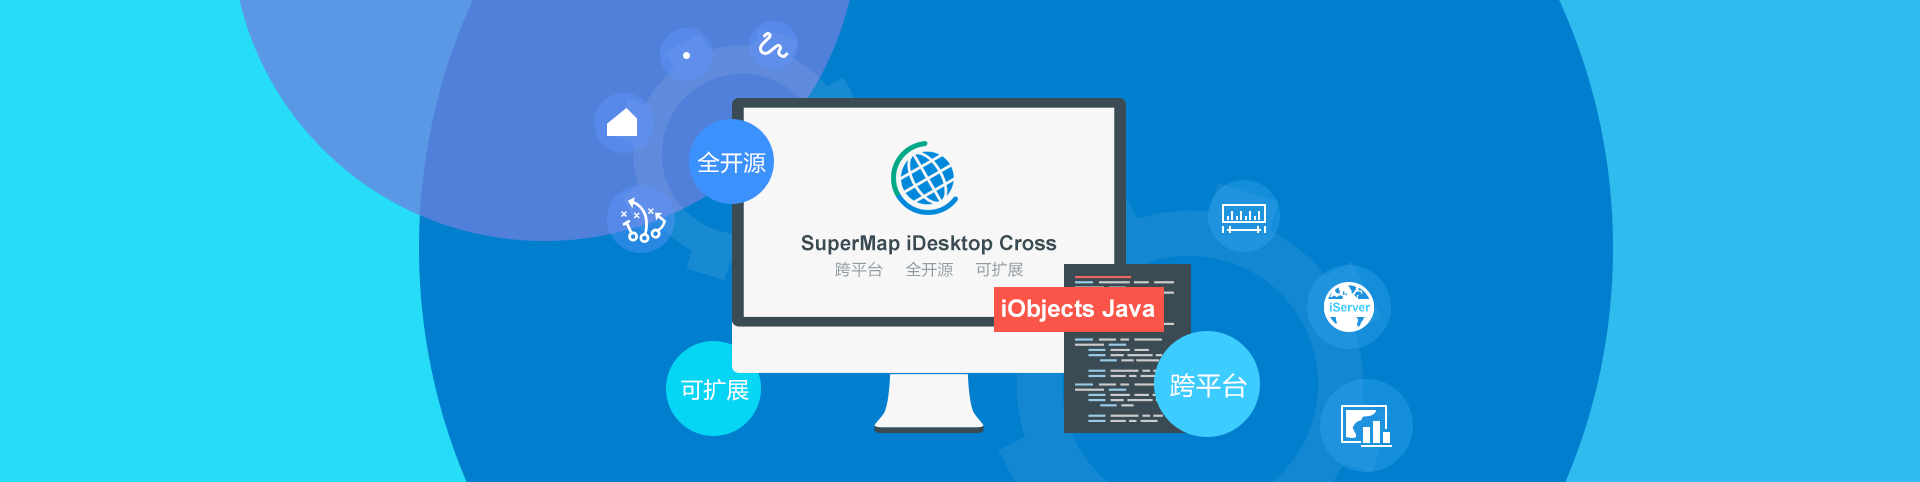
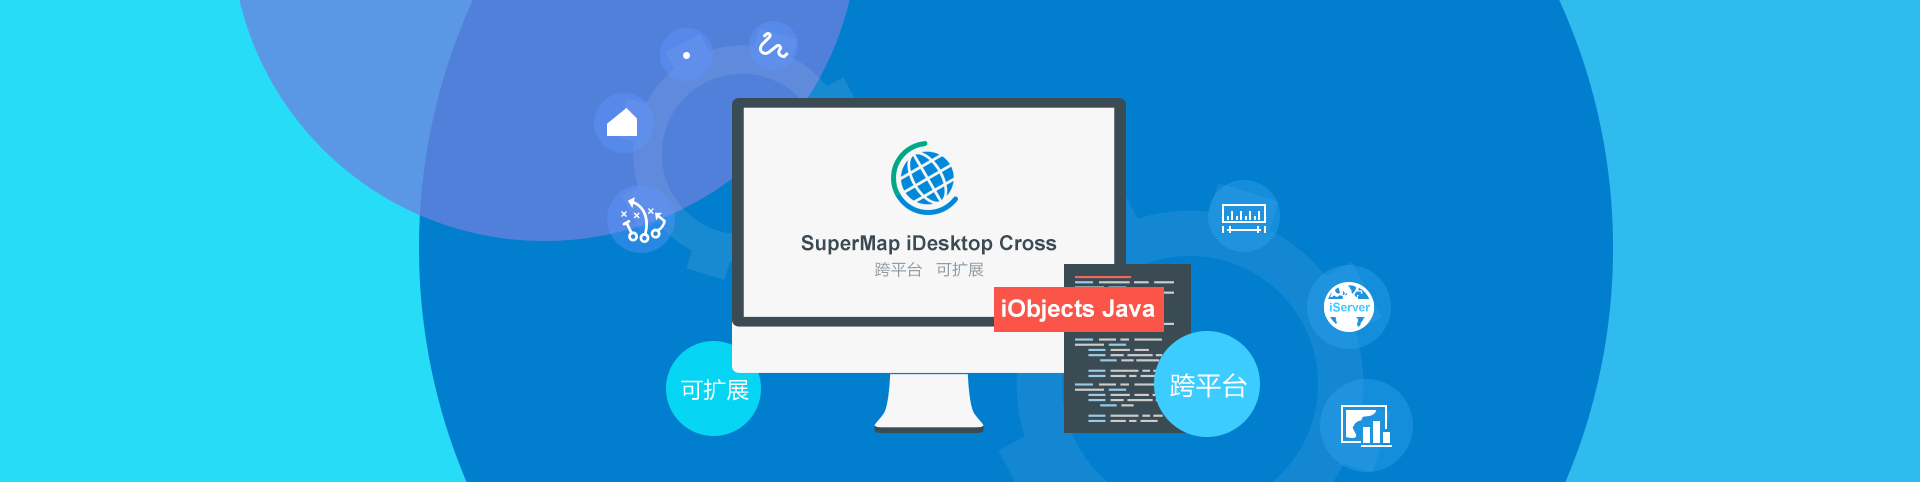
去掉开源相关内容，修改Bigdatastore

Changed region(s): [[0.3438, 0.249, 0.4062, 0.4357], [0.4375, 0.529, 0.5312, 0.5913], [0.3438, 0.778, 0.375, 0.8091]]

diff --git a/source/docs/index.md b/source/docs/index.md
@@ -3,14 +3,12 @@ title: SuperMap iDesktop Cross 9D 产品介绍
 
 　　
 
-　　SuperMap iDesktop Cross 9D 是基于 SuperMap iObjects Java 9D、OSGI 等平台，通过 Java 语言开发的插件式、跨平台GIS应用软件，提供了数据管理、数据处理、数据分析、地图制图出图、三维场景浏览（目前仅Windows平台支持）等功能，同时提供了灵活的开发框架和辅助控件，便于用户二次开发。SuperMap iDesktop Cross 9D的源代码分别开源在[OSChina](http://git.oschina.net/supermap/SuperMap-iDesktop-Cross)和[CSDN](https://code.csdn.net/SuperMapDesktop/supermap-idesktop-cross/tree/master)两大平台上。
+　　SuperMap iDesktop Cross 9D 是基于 SuperMap iObjects Java 9D、OSGI 等平台，通过 Java 语言开发的插件式、跨平台GIS应用软件，提供了数据管理、数据处理、数据分析、地图制图出图、可视化建模等功能，同时提供了灵活的开发框架和辅助控件，便于用户二次开发。
 
 ## 产品简介
 
 　　SuperMap iDesktop Cross 是一套运行在桌面端的专业GIS软件，是基于 SuperMap iObjects Java 组件，使用 OSGI 框架和 intellij idea 工具开发的跨平台 GIS 应用软件。SuperMap iDesktop Cross 提供了适用于不同平台的版本，分为 Windows 和 Linux 两个版本，其中，Windows包括 32 位和 64 位两个版本，分别提供了绿色包和安装包，Linux 版本提供了 64 位的绿色包。
-　　SuperMap iDesktop Cross 提供了适用于不同平台的版本，分为 Windows 和 Linux 两个版本，其中，Windows包括 32 位和 64 位两个版本，分别提供了绿色包和安装包，Linux 版本提供了 64 位的绿色包。
 
-　　SuperMap iDesktop Cross 是一款免许可的应用软件，只要有 SuperMap iObjects Java 的许可，即可使用 SuperMap iDesktop Cross 提供的相应模块的功能。
 
 ## 提供功能
 
@@ -19,7 +17,7 @@ title: SuperMap iDesktop Cross 9D 产品介绍
 　　提供了工作空间管理、数据源管理、数据集管理功能；支持文件型、数据库型、Web型数据引擎；提供对空间数据及其属性的全面操作和处理，包括创建、编辑、管理、访问等功能。
 
 
--   **数据引擎**：支持打开不同数据引擎，如 Oracle、SQLPlus、DB2、MySQL 等数据库，其中，Linux 版本不支持 SQLPlus 数据引擎；同时支持打开Web地图数据，即OGC服务、iServerREST服务、超图云服务、GoogleMaps、BaiduMap、OpenStreetMap、BigDataStore 等Web地图。
+-   **数据引擎**：支持打开不同数据引擎，如 Oracle、SQLPlus、DB2、MySQL 等数据库，其中，Linux 版本不支持 SQLPlus 数据引擎；同时支持打开Web地图数据，即OGC服务、iServerREST服务、超图云服务、GoogleMaps、OpenStreetMap、iServer DataStore 等Web地图。
 
 
 -   **工作空间管理**：支持打开、保存、另存、关闭、删除工作空间，支持打开的工作空间有文件型、Oracle、SQLServer 三种类型，Linux 版本不支持打开 SQL Server 工作空间；异常退出桌面时支持自动恢复工作空间。
@@ -111,7 +109,7 @@ title: SuperMap iDesktop Cross 9D 产品介绍
 
 ### 大数据
 
--   **BigDataStore数据源**：支持 BigDataStore 大数据 Web 引擎，便于用户直接使用 BigDataStore 数据源中的数据集执行数据处理与分析功能。 
+-   **iServer DataStore数据源**：支持 iServer DataStore 大数据 Web 引擎，便于用户直接使用 iServer DataStore 数据源中的数据集执行数据处理与分析功能。 
 
 -   **数据管理**：支持对大数据量的数据进行管理，通过一个部署好并可访问的 Hadoop 地址，即可对自己的数据进行管理，支持了数据上传、下载、文件夹管理、任务管理等功能。 
 
@@ -144,11 +142,11 @@ title: SuperMap iDesktop Cross 9D 产品介绍
 
 ## 主要特色
 
-### 跨平台、全开源、可定制
+### 跨平台、可定制
 
 -   基于 Java 组件采用 Java 语言开发，具有跨平台的特性，支持在 Windows 和 Linux 系统中运行。
 
--   采用 OSGI 新的实现框架——Felix，易扩展、框架配置灵活，实现了插件式桌面及源代码的开源。
+-   采用 OSGI 新的实现框架——Felix，易扩展、框架配置灵活，实现了插件式的桌面。
 -   遵循 OSGI 国际扩展标准，将应用程序分为多个模块单元，统一管理各模块单元及用户开发的模块单元之间的交叉依赖关系，实现GIS数据的展示。
 
 -   界面采用 Swing 图形风格，界面支持跨平台，安全性高，易于界面定制和二次开发。

diff --git a/source/docs/BigData/DataPreparation.md b/source/docs/BigData/DataPreparation.md
@@ -3,13 +3,13 @@ title: 数据准备
 
 　　大数据在线分析服务支持的输入数据来源有以下几种。当数据准备就绪后，在创建各类大数据分析任务时，iServer 会自动列出符合分析条件的数据集。
 
-- BigDataStore 中存储的数据集
+- iServer DataStore 中存储的数据集
 - 存储在HDFS的数据
 - UDB数据
 
-### BigDataStore
+### iServer DataStore
 
-　　BigDataStore 是一款应用程序，您可以通过 iServer DataStore 快速创建数据存储，并将数据存储与 iServer 关联起来。在 DataStore 中配置关系型数据存储时，将自动创建一个 PostgreSQL 数据库，可存储数据集。通过 iServer 大数据服务访问数据，进而可下载、上传数据，以及分析这些数据等。
+　　iServer DataStore 是一款应用程序，您可以通过 iServer DataStore 快速创建数据存储，并将数据存储与 iServer 关联起来。在 DataStore 中配置关系型数据存储时，将自动创建一个 PostgreSQL 数据库，可存储数据集。通过 iServer 大数据服务访问数据，进而可下载、上传数据，以及分析这些数据等。
 
 
 - **环境搭建**
@@ -29,22 +29,22 @@ title: 数据准备
 　　![](img/DataStore6.png) 
 8. 数据集上传成功后，会返回一个唯一的 dataID，如上图所示，用于代表该上传文件的数据包。单击该DataID，可查看该数据包的详细描述信息。上传成功的数据集，也会出现在 relationship/datasets 资源的“数据集列表”中。
 　　![](img/DataStore7.png) 
-9. 上传数据之后，在Cross中通过打开刚配置好的 BigDataStore 数据源，即可查看其中上传的数据
+9. 上传数据之后，在Cross中通过打开刚配置好的 iServer DataStore 数据源，即可查看其中上传的数据
 
 
 　　![](img/DataStore8.png) 
 
 
-- **使用BigDataStore数据**
+- **使用iServer DataStore数据**
 　　
-　　配置好iServer DataStore之后，可在Cross中通过打开Web数据源的方式打开该数据，打开 BigDataStore 的同时，会将存储了同样数据的 PostgreSQL 数据源打开，便于对数据进行分析。具体的使用方式如下：
+　　配置好iServer DataStore之后，可在Cross中通过打开Web数据源的方式打开该数据，打开 iServer DataStore 的同时，会将存储了同样数据的 PostgreSQL 数据源打开，便于对数据进行分析。具体的使用方式如下：
 
 
 1. 打开SuperMap iDesktop Cross，在**工作空间管理器**的**数据源**节点处单击鼠标右键，选择“打开Web型数据源...”；
-2. 在弹出的对话框中选择“BigDataStore”，并输入该数据源所在的服务器IP和端口号，如下图所示，单击打开即可打开该服务器中配置好的数据源。
+2. 在弹出的对话框中选择“iServer DataStore”，并输入该数据源所在的服务器IP和端口号，如下图所示，单击打开即可打开该服务器中配置好的数据源。
 　　![](img/OpenBDS.png)
-3. 打开BigDataStore数据源的同时，会打开存储了同样数据的 PostgreSQL 数据源，该PostgreSQL 数据源的名称为**BigDataStore_数据库名**，做大数据在线分析时，选择 PostgreSQL 中的数据做源数据即可。
-4. 设置大数据在线分析功能的“输入数据”参数时，“数据输入方式”选择**BigDataStore**，并设置数据所在的服务器地址、数据库名称、用户名、密码，这些参数的设置可在**BigDataStore**数据源下，单击数据集右键，选择“属性”查看即可，如下图所示：
+3. 打开iServer DataStore数据源的同时，会打开存储了同样数据的 PostgreSQL 数据源，该PostgreSQL 数据源的名称为**iServerDataStore_数据库名**，做大数据在线分析时，选择 PostgreSQL 中的数据做源数据即可。
+4. 设置大数据在线分析功能的“输入数据”参数时，“数据输入方式”选择**iServer DataStore**，并设置数据所在的服务器地址、数据库名称、用户名、密码，这些参数的设置可在**iServer DataStore**数据源下，单击数据集右键，选择“属性”查看即可，如下图所示：
 　　![](img/BDSProperty.png)
 5. 参与分析的**源数据**选择对应 PostgreSQL 数据源中的数据集，即可执行在线分析。
 

diff --git a/source/en/docs/BigData/DataPreparation.md b/source/en/docs/BigData/DataPreparation.md
@@ -3,11 +3,11 @@ title: Data Preparation
 
 　　After big data is ready, iServer will list all datasets which meet the analysis condition when creating big data analysis tasks. All supported data sources are listed by big data online analysis service as follows.
 
-- Data stored in BigDataStore
+- Data stored in iServer DataStore
 - Data stored in HDFS
 - UDB data
 
-### BigDataStore
+### iServer DataStore
 
 　　New application program DataStore is provided, you can create data storage quickly through iServer DataStore, and associate data storage with iServer. When configuring relational data storage in DataStore, a PostgreSQL database will be created automatically which is used to store dataset. Through iServer big data service, you can download, upload data, and analyze data.
 
@@ -29,22 +29,22 @@ title: Data Preparation
 　　![](img/DataStore6.png) 
 8. After uploading data successfully, the only dataID will be returned, which is used to represent the uploaded data package. You can view the detailed description information of the data package by clicking the DataID. The uploaded dataset will be displayed in "Dataset List" of relationship/datasets resource.
 　　![](img/DataStore7.png) 
-9. Open the configured BigDataStore datasource in Cross to view the uploaded data.
+9. Open the configured iServer DataStore datasource in Cross to view the uploaded data.
 
 
 　　![](img/DataStore8.png) 
 
 
-- **Using BigDataStore Data**
+- **Using iServer DataStore Data**
 　　
 　　After configuring iServer DataStore successfully, the data can be opened by opening web datasource in Cross, at the same time, PostgreSQL datasource which saves the same data will be opened. The detail operations are shown as follow:
 
 
 1. Open SuperMap iDesktop Cross, right-click mouse in **Datasource** node of "Workspace Manager", and then select "Open Web datasource...".
-2. Select "BigDataStore" in the pop-up dialog box, and enter server IP and port number as follows, click "Open" to open datasource configured in the server.
+2. Select "iServer DataStore" in the pop-up dialog box, and enter server IP and port number as follows, click "Open" to open datasource configured in the server.
 　　![](img/OpenBDS.png)
-3. PostgreSQL datasource will be opened when opening BigDataStore datasource, the PostgreSQL datasource name is **BigDataStore_database name**, when performing big data online analysis, selecting data in PostgreSQL as source data.
-4. About the settings of parameter "Input Data" of big data online analysis, choose **BigDataStore** for "Data Input Mode", and set server address, database name, username, password, you can view these parameters settings by right-clicking dataset under **BigDataStore** datasource and selecting Property, as follows:
+3. PostgreSQL datasource will be opened when opening iServer DataStore datasource, the PostgreSQL datasource name is **iServerDataStore_database name**, when performing big data online analysis, selecting data in PostgreSQL as source data.
+4. About the settings of parameter "Input Data" of big data online analysis, choose **iServer DataStore** for "Data Input Mode", and set server address, database name, username, password, you can view these parameters settings by right-clicking dataset under **iServer DataStore** datasource and selecting Property, as follows:
 　　![](img/BDSProperty.png)
 5. Select dataset of corresponded PostgreSQL datasource for "Source Data" which will participate in analysis.
 

diff --git a/source/en/docs/index.md b/source/en/docs/index.md
@@ -3,12 +3,11 @@ title: SuperMap iDesktop Cross 9D Introduction
 
 　　
 
-　　SuperMap iDesktop Cross 9D which is written in Java is a plug-in, cross-platform application software based on SuperMap iObjects Java 9D and OSGI. Cross provides various features, such as: data management, data processing, data analysis, and mapping (only supported on Windows), and provides a flexible development framework and auxiliary controls, user-friendly secondary development. The source codes of Cross is put on the platforms [OSChina](http://git.oschina.net/supermap/SuperMap-iDesktop-Cross) and [CSDN](https://code.csdn.net/SuperMapDesktop/supermap-idesktop-cross/tree/master).
+　　SuperMap iDesktop Cross 9D which is written in Java is a plug-in, cross-platform application software based on SuperMap iObjects Java 9D and OSGI. Cross provides various features, such as: data management, data processing, data analysis, and mapping, modeling visually, and provides a flexible development framework and auxiliary controls, user-friendly secondary development.
 
 ## Product introduction
 
-　　SuperMap iDesktop Cross is a professional , cross-platform GIS software which is developed based on SuperMap iObjects Java. by using OSGI framework and intellij idea tool. 
-　　Multiple Cross versions are provided for Windows and Linux. For Windows, the provided versions include bin packages and installation package (both of them are in 32 bit and 64 bit), while the bin package in 64 bit is provided for Linux system.
+　　SuperMap iDesktop Cross is a professional , cross-platform GIS software which is developed based on SuperMap iObjects Java. by using OSGI framework and intellij idea tool. Multiple Cross versions are provided for Windows and Linux. For Windows, the provided versions include the bin packages in 32 bit and 64 bit, while only the bin package in 64 bit is provided for Linux system.
 
 ## Provided functions
 
@@ -142,7 +141,7 @@ title: SuperMap iDesktop Cross 9D Introduction
 -   Since adopting JAVA program language, the product (based on Java iObjects) has the ability of cross-platform which means the product can run on Windows or Linux system.
 
 -   The adoption of Felix makes the application easy to expand and flexible configuration framework and achieves a pluggable iDesktop.
--   The OSGI international standards is conformed. An application program can be devided into multiple units, so that relationships between each unit and these units developed by users can be managed to achieve the display for GIS data.
+-   The OSGI international standards is conformed. An application program can be divided into multiple units, so that relationships between each unit and these units developed by users can be managed to achieve the display for GIS data.
 
 -   The interface adopts Swing graphic styles, supports cross-platform. Also it is strong security and can be easy to customize and secondary development. 
 

diff --git a/source/docs/BigData/DensityAnalysis.md b/source/docs/BigData/DensityAnalysis.md
@@ -30,19 +30,19 @@ title: 密度分析
 
 - **输入数据**
 
-　　数据输入方式：支持HDFS、BigDataStore、UDB三种数据输入方式，数据的使用和准备请参见：[数据准备](DataPreparation.html)。
+　　数据输入方式：支持HDFS、iServer DataStore、UDB三种数据输入方式，数据的使用和准备请参见：[数据准备](DataPreparation.html)。
 
 　　**HDFS**
 
 　　使用HDFS的数据输入方式，单击“选择文件”右侧的“浏览”按钮，在弹出的对话框中输入HDFS的数据地址，并选择待分析的scv文件即可。**注意**：参与密度分析的scv数据需要有对应的meta文件，若未创建meta文件，单击“meta文件不存在，请设置后使用”提示框中的“确定”按钮，即可在随后弹出的对话框中设置相关参数，“保存”后即可为scv文件创建meta文件。
 
-　　**BigDataStore**
+　　**iServer DataStore**
 
-　　使用BigDataStore的数据输入方式，需要先打开BigDataStore数据源，打开 BigDataStore 的同时，会将存储了同样数据的 PostgreSQL 数据源打开，便于对数据进行分析。具体的使用方式如下：
+　　使用iServer DataStore的数据输入方式，需要先打开iServer DataStore数据源，打开 iServer DataStore 的同时，会将存储了同样数据的 PostgreSQL 数据源打开，便于对数据进行分析。具体的使用方式如下：
 
 
-1. 通过“打开Web型数据源...”的方式打开BigDataStore数据源，打开BigDataStore数据源的同时，会打开存储了同样数据的 PostgreSQL 数据源，该PostgreSQL 数据源的名称为**BigDataStore_数据库名**；
-2. 设置数据所在的服务器地址、数据库名称、用户名、密码，这些参数的设置可在**BigDataStore**数据源下，单击数据集右键，选择“属性”查看即可，如下图所示：
+1. 通过“打开Web型数据源...”的方式打开iServer DataStore数据源，打开iServer DataStore数据源的同时，会打开存储了同样数据的 PostgreSQL 数据源，该PostgreSQL 数据源的名称为**iServerDataStore_数据库名**；
+2. 设置数据所在的服务器地址、数据库名称、用户名、密码，这些参数的设置可在**iServer DataStore**数据源下，单击数据集右键，选择“属性”查看即可，如下图所示：
 　　![](img/BDSProperty.png)
 3. 设置待分析数据集所在的 PostgreSQL 数据名称，并选择待分析的数据集及其类型。
 

diff --git a/source/en/docs/BigData/BigDataAnalysisEnvironmentConfiguration.md b/source/en/docs/BigData/BigDataAnalysisEnvironmentConfiguration.md
@@ -1,7 +1,7 @@
 title: Environment Configuration for Big Data Analysis
 ---
 
-　　New feature of big data analysis, performs online analysis effectively to data of great amount or multiple objects. Big data online analysis relies on iServer service. Based on Spark computing platform, distributed storage of data which is stored in HDFS, BigDataStore, or UDB can be analyzed. The features including big data of management, analysis, mapping and outputting map have been provided by Cross. For online analysis function, there are some features to be provided, including: simple point density analysis, kernel density analysis, vector clip analysis, single object query, mesh aggregation analysis, polygon aggregation analysis, range summary analysis.
+　　New feature of big data analysis, performs online analysis effectively to data of great amount or multiple objects. Big data online analysis relies on iServer service. Based on Spark computing platform, distributed storage of data which is stored in HDFS, iServer DataStore, or UDB can be analyzed. The features including big data of management, analysis, mapping and outputting map have been provided by Cross. For online analysis function, there are some features to be provided, including: simple point density analysis, kernel density analysis, vector clip analysis, single object query, mesh aggregation analysis, polygon aggregation analysis, range summary analysis.
  
 　　Follwing details environment configuration and operation of Big data online analysis.
 
@@ -22,7 +22,7 @@ title: Environment Configuration for Big Data Analysis
 6. Head to "Distributed analyst Service" panel, then check "Enable service" and click "Save" button.
 7. After completing the configuration, you can check whether the distributor analysis service has been added successfully by accessing [http://localhost:8090/iserver/services](http://localhost:8090/iserver/services).
 　　![](img/BDAnalysisiServer.png)
-8. Succeed to configure environment, then [prepare data](DataPreparation.html) (BigDataStore, HDFS or UDB) to execute the operation.
+8. Succeed to configure environment, then [prepare data](DataPreparation.html) ( iServer DataStore, HDFS or UDB) to execute the operation.
 
 
 ### ![](../img/seealso.png) Related topics

diff --git a/source/docs/BigData/BigDataAnalysisEnvironmentConfiguration.md b/source/docs/BigData/BigDataAnalysisEnvironmentConfiguration.md
@@ -1,7 +1,7 @@
 title: 大数据分析环境配置
 ---
 
-　　SuperMap iDesktop Cross 9D 提供了大数据在线分析的功能，可对数据量较大、对象个数较多的数据进行高效、稳定的在线分析功能。大数据在线分析依赖于iServer服务，基于Spark计算平台，可对分布式存储的数据进行分析，支持HDFS存储的数据、BigDataStore中存储的数据、UDB中存储的数据。Cross提供了大数据的管理、分析、地图制图、出图等功能，在线分析功能支持：简单点密度分析、核密度分析、矢量裁剪分析、单对象查询、网格面聚合分析、多边形聚合分析、范围汇总分析。
+　　SuperMap iDesktop Cross 9D 提供了大数据在线分析的功能，可对数据量较大、对象个数较多的数据进行高效、稳定的在线分析功能。大数据在线分析依赖于iServer服务，基于Spark计算平台，可对分布式存储的数据进行分析，支持HDFS存储的数据、iServer DataStore中存储的数据、UDB中存储的数据。Cross提供了大数据的管理、分析、地图制图、出图等功能，在线分析功能支持：简单点密度分析、核密度分析、矢量裁剪分析、单对象查询、网格面聚合分析、多边形聚合分析、范围汇总分析。
  
 　　大数据在线分析的环境配置和操作步骤如下：
 
@@ -22,7 +22,7 @@ title: 大数据分析环境配置
 6. 切换至“分布式分析服务”面板，勾选“是否启用”复选框，单击“保存”按钮即可；
 7. 完成上述集群配置之后，在浏览器中访问：[http://localhost:8090/iserver/services](http://localhost:8090/iserver/services)，查看服务列表中是否成功添加了分布式分析服务，如添加成功，则可基于该服务链接新建iServer任务，如下图所示：
 　　![](img/BDAnalysisiServer.png)
-8. 配置好分析环境后，[准备好数据](DataPreparation.html)（BigDataStore、HDFS 或 UDB）的即可执行大数据在线分析操作。
+8. 配置好分析环境后，[准备好数据](DataPreparation.html)（iServer DataStore、HDFS 或 UDB）的即可执行大数据在线分析操作。
 
 
 ### ![](../img/seealso.png) 相关主题

diff --git a/source/en/docs/BigData/DensityAnalysis.md b/source/en/docs/BigData/DensityAnalysis.md
@@ -30,19 +30,19 @@ title: Density Analysis
 
 - **Input Data**
 
-　　Input method: supporting HDFS, BigDataStore, UDB. For data preparation, please reference: [Data Preparation](DataPreparation.html).
+　　Input method: supporting HDFS, iServer DataStore, UDB. For data preparation, please reference: [Data Preparation](DataPreparation.html).
 
 　　**HDFS**
 
 　　For using HDFS method, you can click "Browse" button on the right side of "Select File", input HDFS data address in the pop-up dialog box and select scv file. **Note**: there must be a meta file corresponding to scv data, if not, you only need to click "OK" button in the prompt box (the prompt content is: meta file doesn't exist, please set it), then set related parameters and click "Save", a meta file is created.
 
-　　**BigDataStore**
+　　**iServer DataStore**
 
-　　For using BigDataStore method, you need to open BigDataStore datasource first, at the same time, PostgreSQL datasource which stores the same data will be opened automatically. The detail operation is as follows:
+　　For using iServer DataStore method, you need to open iServer DataStore datasource first, at the same time, PostgreSQL datasource which stores the same data will be opened automatically. The detail operation is as follows:
 
 
-1. Open BigDataStore datasource in "Open Web datasource...", meanwhile PostgreSQL datasource is opened. The PostgreSQL datasource name is **BigDataStore_Database name**.
-2. Set related parameters including: server address, database name, username, password, you can view these parameters by right-clicking **BigDataStore** datasource and selecting "Property", as follows:
+1. Open iServer DataStore datasource in "Open Web datasource...", meanwhile PostgreSQL datasource is opened. The PostgreSQL datasource name is **iServerDataStore_Database name**.
+2. Set related parameters including: server address, database name, username, password, you can view these parameters by right-clicking **iServer DataStore** datasource and selecting "Property", as follows:
 　　![](img/BDSProperty.png)
 3. Set name of PostgreSQL database where dataset to be analyzed is located, and select the dataset and its type.
 
